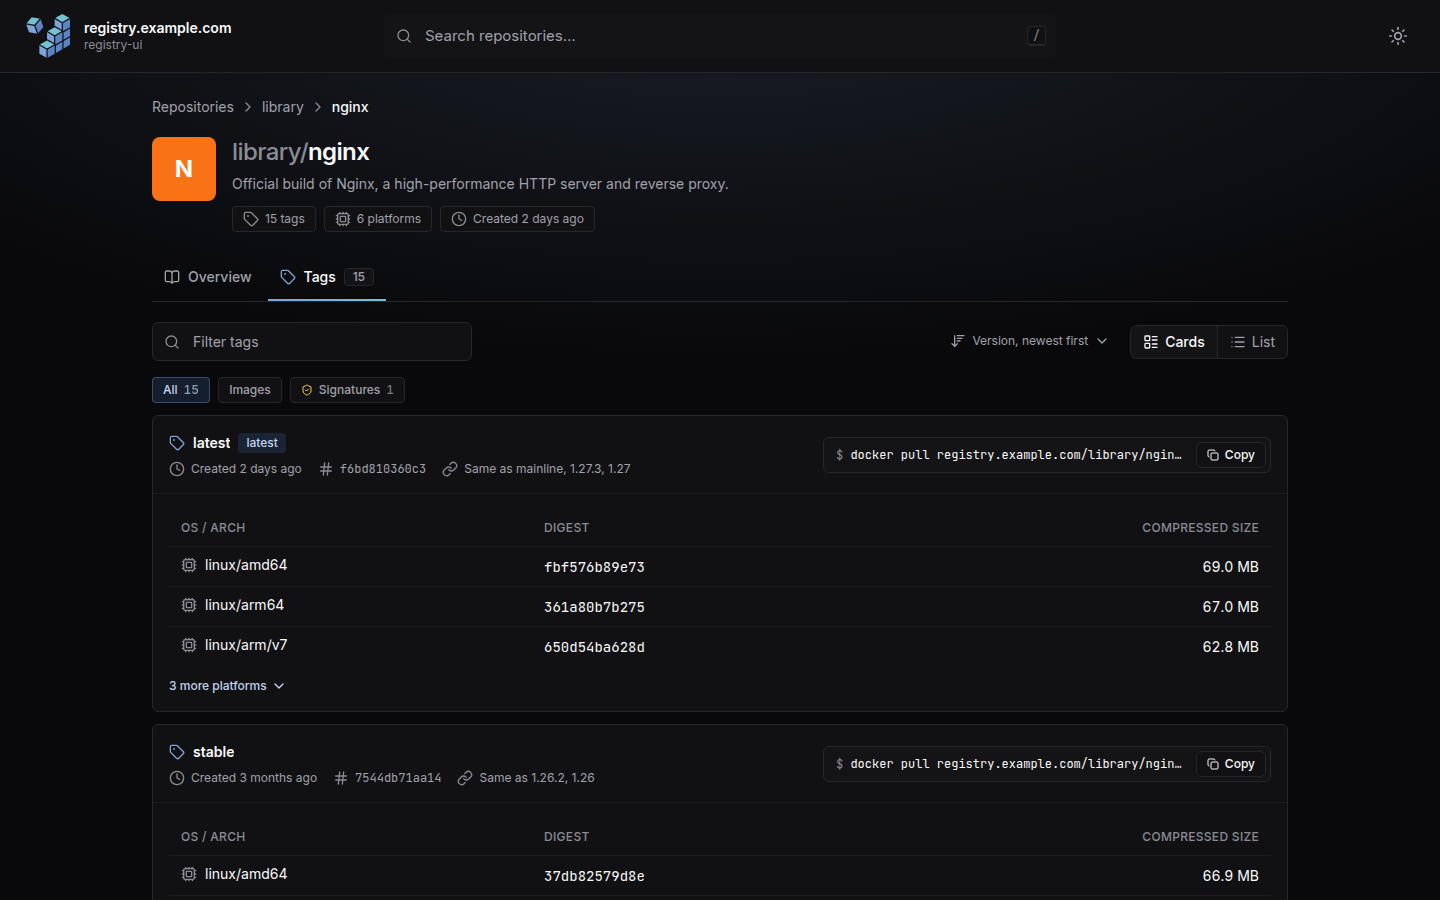
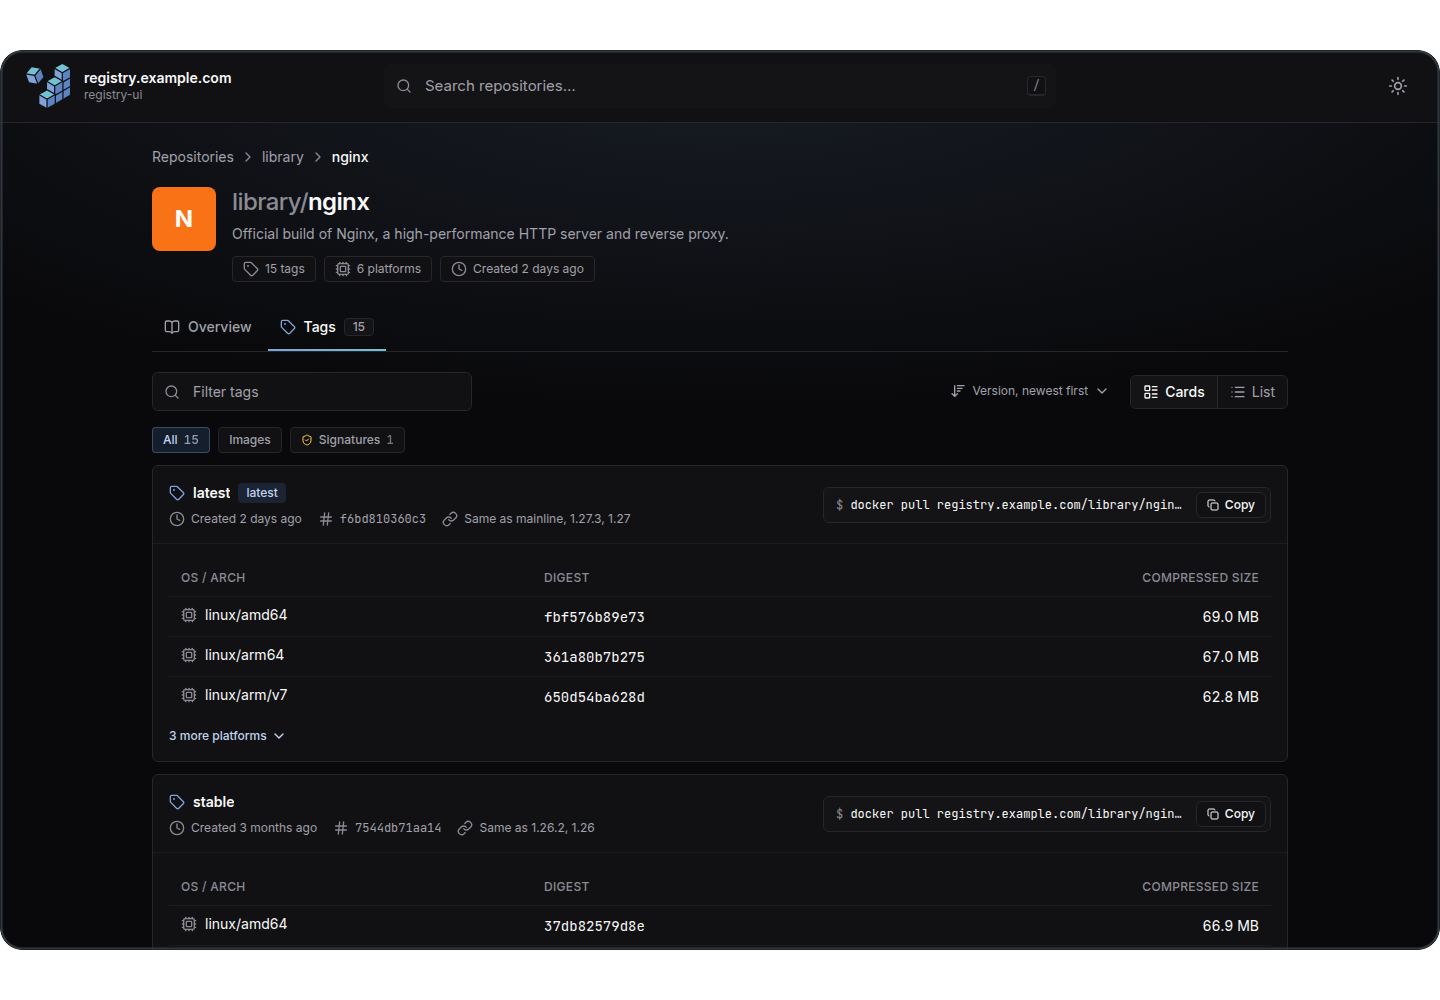
docs: fix the README badges and soften the screenshot (#90)
The repo is private for now, so the shields.io badges that read it (Go
version, licence, latest release) showed "repo not found" or a broken
image, and there's no release yet. The Go and licence badges are static
now, and the release badge is gone until there's a release to point at.

The screenshots get rounded corners, a thin border and 50px of clear
space above and below, baked into the images since GitHub strips CSS
from READMEs.

Closes #89

diff --git a/README.md b/README.md
@@ -9,10 +9,9 @@
 
 <p align="center">
   <a href="https://github.com/Ahhhh-man/registry-ui/actions/workflows/ci.yml"><img src="https://github.com/Ahhhh-man/registry-ui/actions/workflows/ci.yml/badge.svg" alt="CI"></a>
-  <a href="https://github.com/Ahhhh-man/registry-ui/releases/latest"><img src="https://img.shields.io/github/v/release/Ahhhh-man/registry-ui?sort=semver" alt="Latest release"></a>
   <a href="https://github.com/Ahhhh-man/registry-ui/pkgs/container/registry-ui"><img src="https://img.shields.io/badge/image-ghcr.io%2Fahhhh--man%2Fregistry--ui-blue" alt="Container image"></a>
-  <a href="go.mod"><img src="https://img.shields.io/github/go-mod/go-version/Ahhhh-man/registry-ui" alt="Go version"></a>
-  <a href="LICENSE"><img src="https://img.shields.io/github/license/Ahhhh-man/registry-ui" alt="License"></a>
+  <a href="go.mod"><img src="https://img.shields.io/badge/go-1.27-00ADD8?logo=go&amp;logoColor=white" alt="Go version"></a>
+  <a href="LICENSE"><img src="https://img.shields.io/badge/license-MIT-blue" alt="License"></a>
 </p>
 
 <picture>
